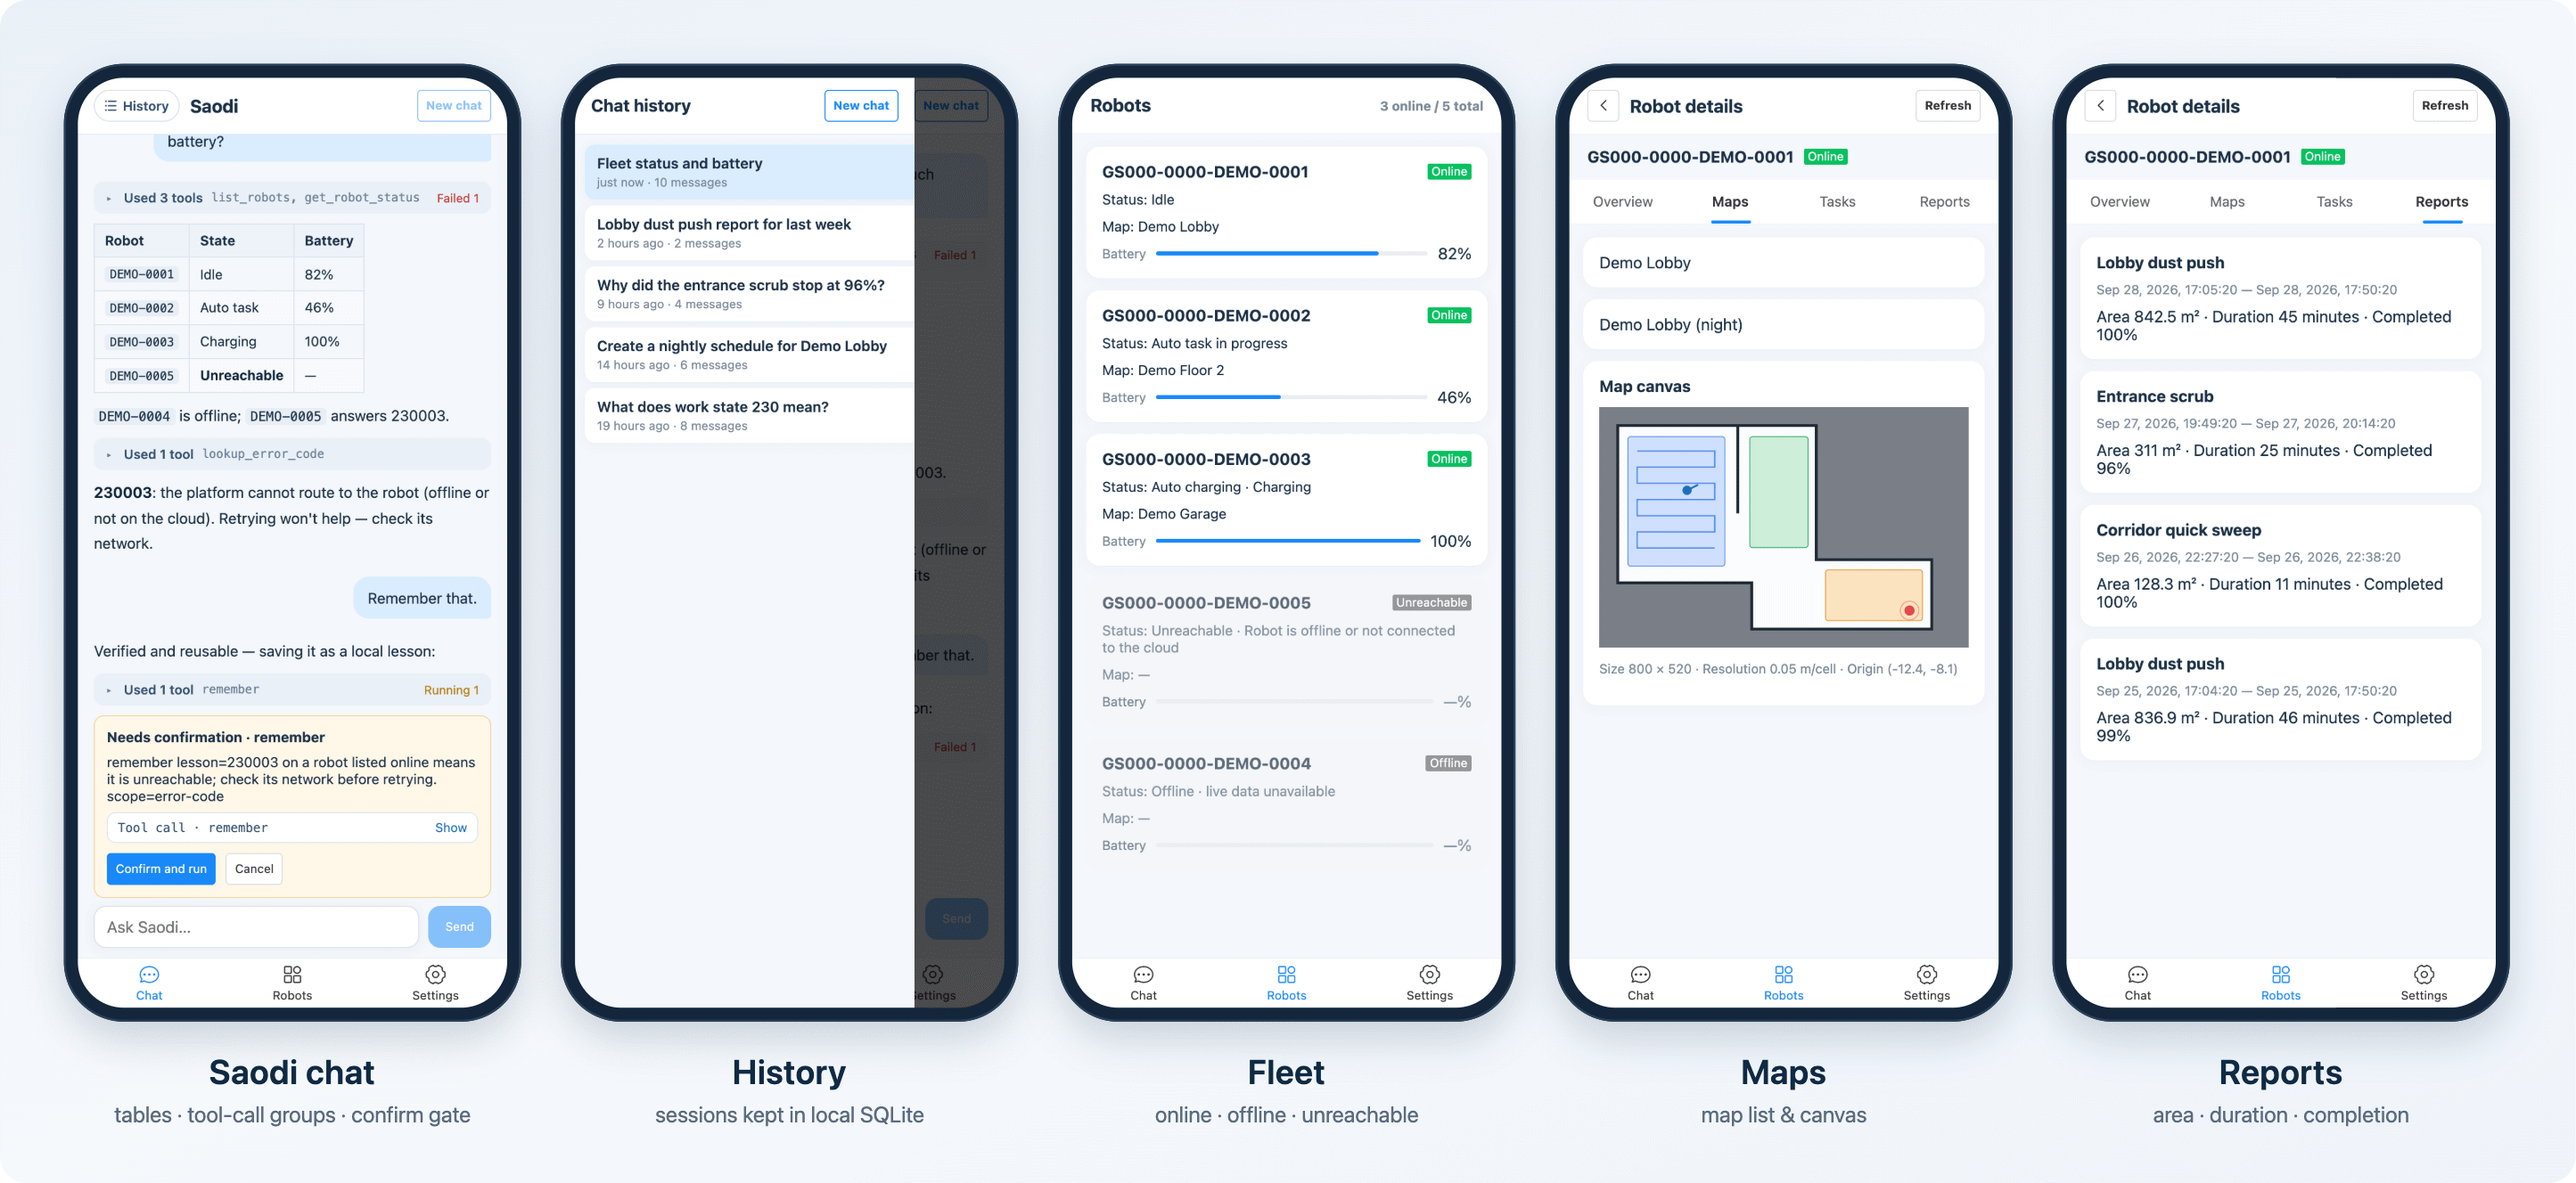
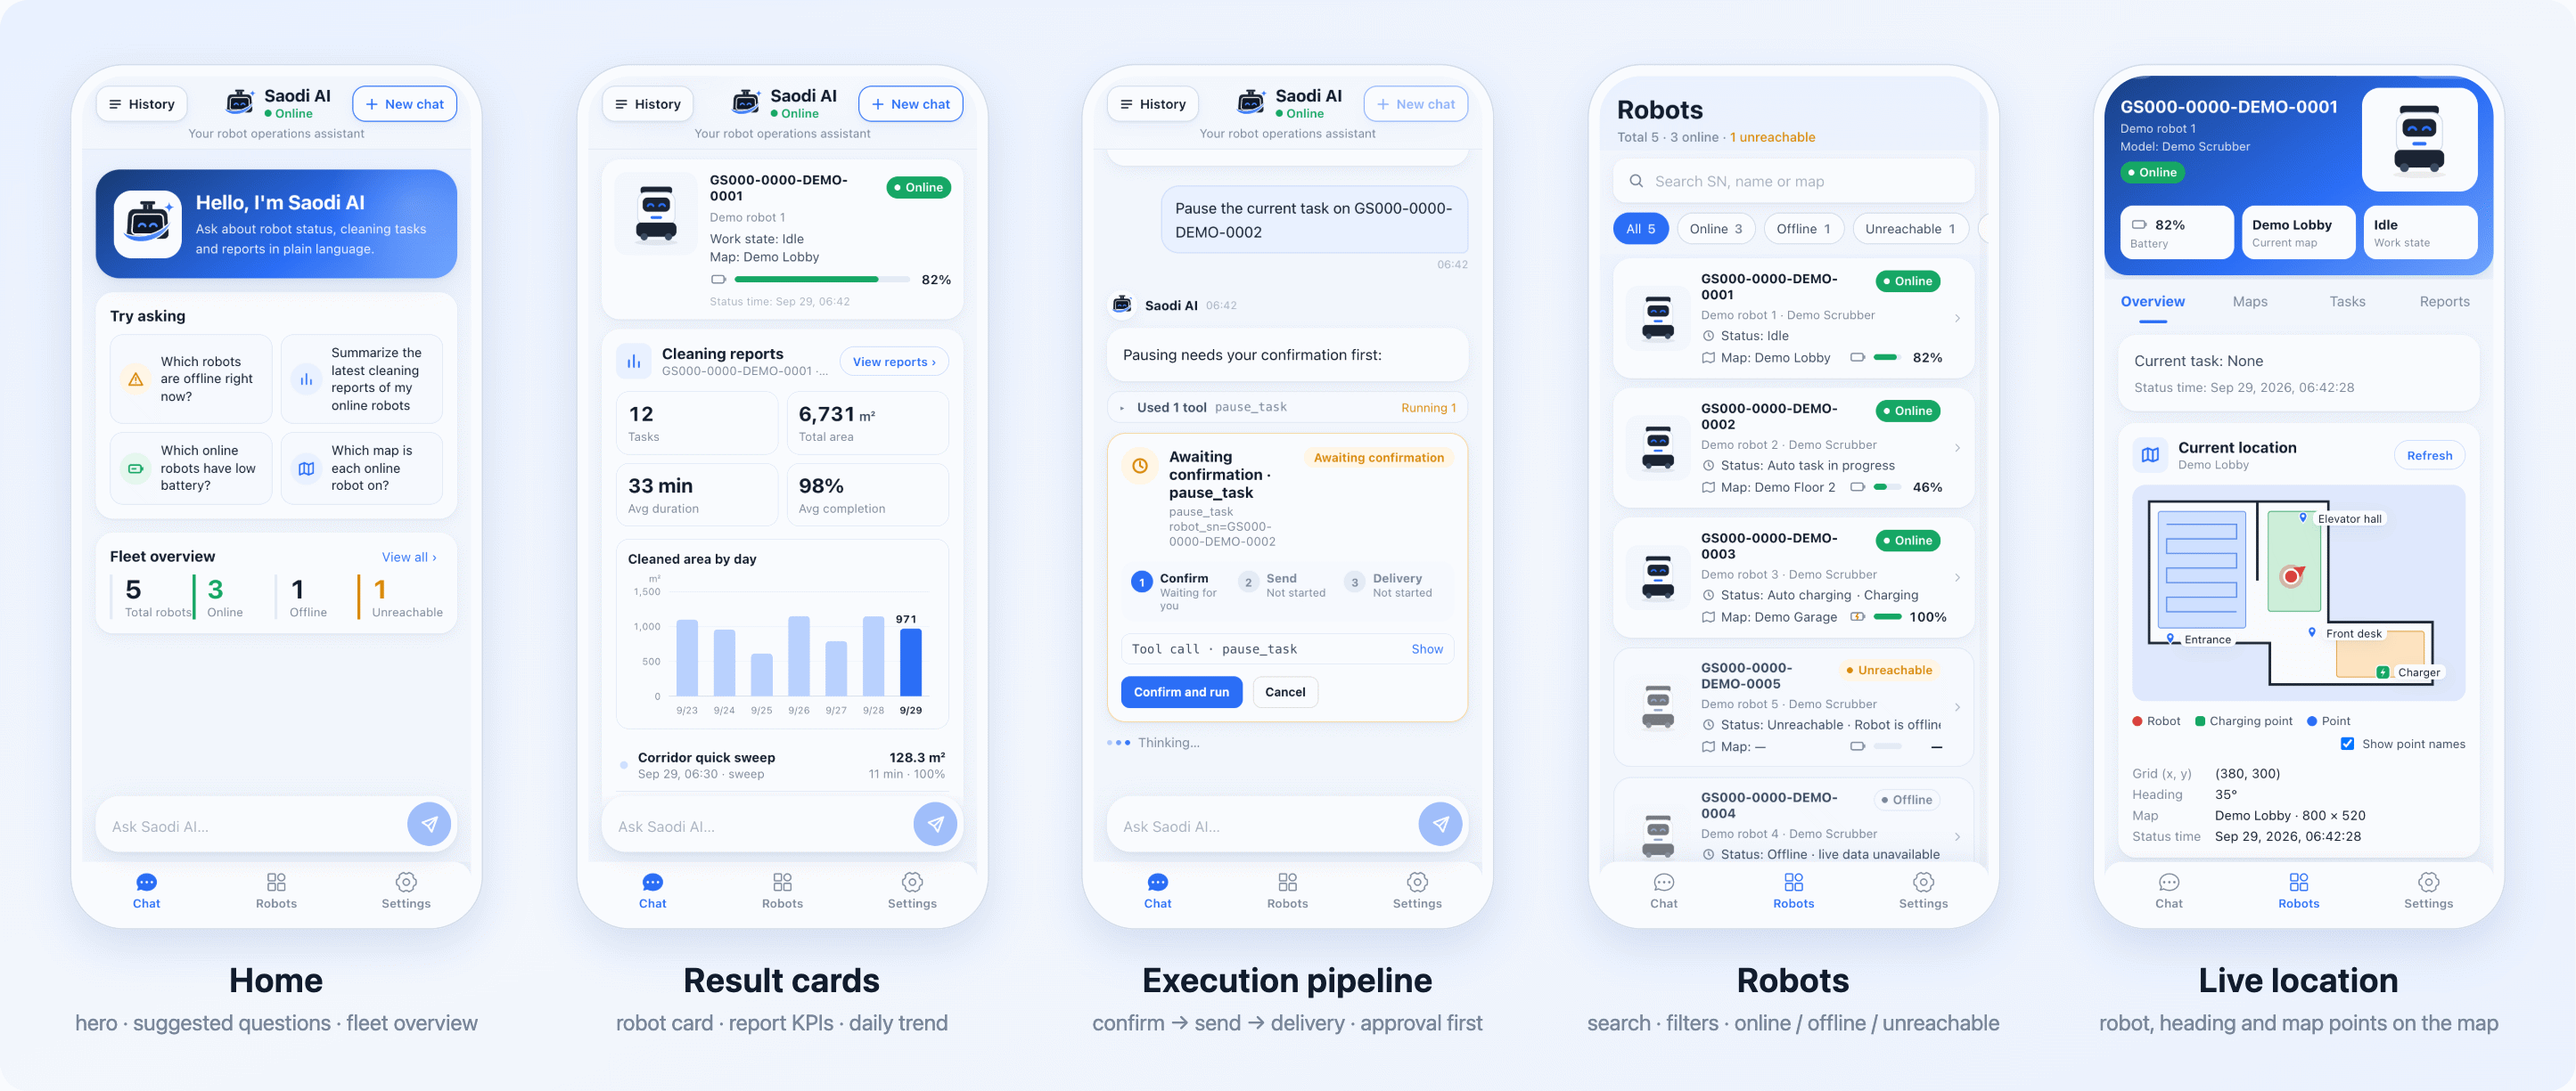
docs: 0.4.0 展示图与 README 说明；弃用提示写明 0.5.0 移除

Changed region(s): [[0.0, 0.031, 0.9965, 0.9616]]

diff --git a/src/gs_openapi/agent/cli.py b/src/gs_openapi/agent/cli.py
@@ -235,8 +235,8 @@ def main(argv: list[str] | None = None, prog: str = "saodi") -> None:
 
 
 def legacy_main() -> None:
-    """Deprecated ``pi-agent`` command; same behaviour as ``saodi`` for one release."""
-    print("pi-agent is deprecated; use saodi instead (it goes away next release)", file=sys.stderr)
+    """Deprecated ``pi-agent`` command; same behaviour as ``saodi``, removed in 0.5.0."""
+    print("pi-agent is deprecated; use saodi instead (removed in 0.5.0)", file=sys.stderr)
     main(prog="pi-agent")
 
 

diff --git a/src/gs_openapi/agent/settings.py b/src/gs_openapi/agent/settings.py
@@ -30,7 +30,7 @@ def _warn_legacy_env() -> None:
     for new, old in LEGACY_ENV.items():
         if new not in os.environ and old in os.environ and old not in _warned:
             _warned.add(old)
-            logger.warning("%s is deprecated; use %s instead (the old name goes away next release)", old, new)
+            logger.warning("%s is deprecated; use %s instead (removed in 0.5.0)", old, new)
 
 
 class AgentSettings(BaseSettings):

diff --git a/tests/test_agent_context.py b/tests/test_agent_context.py
@@ -144,6 +144,7 @@ def test_pi_agent_alias_warns_then_behaves_like_saodi(monkeypatch, capsys):
     legacy_main()
     captured = capsys.readouterr()
     assert "pi-agent is deprecated; use saodi" in captured.err
+    assert "removed in 0.5.0" in captured.err
     assert captured.out.startswith("<!-- soul: soul.md -->")
 
 

diff --git a/src/gs_openapi/agent/core.py b/src/gs_openapi/agent/core.py
@@ -291,5 +291,5 @@ class SaodiAgent:
                 return
 
 
-# Deprecated alias kept for one release; use SaodiAgent.
+# Deprecated alias, removed in 0.5.0; use SaodiAgent.
 PiAgent = SaodiAgent

diff --git a/README.md b/README.md
@@ -20,9 +20,9 @@
 
 > ⚠ **Disclaimer** — This is an **unofficial, open-source project for personal research and learning.** Not affiliated with, endorsed by, or supported by Gausium (高仙). Use at your own risk — robot commands move physical machines, so test on simulators or idle robots first. Built solely from the public [Gausium OpenAPI V3 documentation](https://developer.gs-robot.com/v3docs/en_US/OpenAPI%20V3/Overview).
 
-![H5 app: Saodi chat, history, fleet, maps and reports](https://github.com/cfrs2005/mcp-gs-robot/raw/main/docs/images/h5-showcase.png)
+![H5 app: home with greeting, suggested questions and fleet overview; result cards (robot card, report KPIs, daily trend); execution pipeline (confirm → sent → delivered, nothing runs until approved); robot list (search, filters, online / offline / unreachable); current location (robot, heading and map points on the map)](https://github.com/cfrs2005/mcp-gs-robot/raw/main/docs/images/h5-showcase.png)
 
-<sub>Screenshots of the built-in H5 app, running against a mock upstream with demo data.</sub>
+<sub>The built-in H5 app, left to right: Home · Result cards · Execution pipeline · Robots · Current location. Running against a mock upstream with demo data.</sub>
 
 ## What is this?
 
@@ -365,7 +365,7 @@ curl -N -XPOST -H "X-API-Key: $KEY" -H 'Content-Type: application/json' \
   localhost:8000/api/v1/agent/sessions/$SID/messages
 ```
 
-**H5** (`h5/`, Vue 3 + Vite + Vant): **Chat** (streaming Markdown, HTML preview, a tool-call timeline, confirm buttons and a history drawer), **Robots** (fleet list with online / offline / unreachable states, battery and work state), **Detail** (maps & canvas, task definitions, quick actions, reports; offline robots get a banner instead of errors) and **Settings** (API base, API key, language). When the server needs a key and none is saved, the H5 sends you to Settings. The production build is committed to `src/gs_openapi/server/static/`, so `pip install` ships it.
+**H5** (`h5/`, Vue 3 + Vite + Vant): **Chat** (a home screen with greeting, suggested questions and a fleet overview; streaming Markdown, HTML preview and mermaid diagrams; a tool-call timeline with result cards for robots, report KPIs, daily trends and maps; an execution pipeline card for dangerous tools — confirm → sent → delivered, nothing runs until approved; and a history drawer), **Robots** (fleet list with search and filters, online / offline / unreachable states, battery and work state), **Detail** (current location — the robot, its heading and map points on the map — maps & canvas, task definitions, quick actions, reports; offline robots get a banner instead of errors) and **Settings** (API base, API key, language). When the server needs a key and none is saved, the H5 sends you to Settings. The production build is committed to `src/gs_openapi/server/static/`, so `pip install` ships it.
 
 ### Languages
 

diff --git a/README_CN.md b/README_CN.md
@@ -22,9 +22,9 @@
 
 > ⚠ **免责声明** —— 本项目是**非官方、个人研究学习用途的开源项目**，与高仙（Gausium）官方无任何隶属、认可或支持关系，使用风险自负。机器人指令会让实体机器移动，请先在模拟器或空闲机器人上测试。项目仅依据公开的[高仙 OpenAPI V3 文档](https://developer.gs-robot.com/v3docs/zh_CN/OpenAPI%20V3/Overview)实现。
 
-![H5 页面：扫地僧对话、历史会话、机器人列表、地图与报告](https://github.com/cfrs2005/mcp-gs-robot/raw/main/docs/images/h5-showcase_cn.png)
+![H5 页面：首页（问候、推荐问题、机队总览）；结果卡片（机器人卡、报告 KPI、每日趋势）；执行流水线（确认 → 发送 → 送达，未批准不执行）；机器人（搜索、筛选、在线 / 离线 / 失联）；当前定位（地图上的机器人、朝向与点位）](https://github.com/cfrs2005/mcp-gs-robot/raw/main/docs/images/h5-showcase_cn.png)
 
-<sub>内置 H5 页面截图，连接 mock 上游，数据为演示数据。</sub>
+<sub>内置 H5 页面，从左到右：首页 · 结果卡片 · 执行流水线 · 机器人 · 当前定位。连接 mock 上游，数据为演示数据。</sub>
 
 ## 这是什么？
 
@@ -361,7 +361,7 @@ curl -N -XPOST -H "X-API-Key: $KEY" -H 'Content-Type: application/json' \
   localhost:8000/api/v1/agent/sessions/$SID/messages
 ```
 
-**H5**（`h5/`，Vue 3 + Vite + Vant）：**对话**（流式 Markdown、HTML 预览、工具调用时间线、确认按钮、历史抽屉）、**机器人**（在线 / 离线 / 不可达三态、电量、工作状态）、**详情**（地图与画布、任务定义、快捷操作、报告；离线机器人显示横幅而不是报错）、**设置**（API 地址、API Key、语言）。服务端要求 key 而本地没填时，H5 会引导你去设置页。生产构建已提交在 `src/gs_openapi/server/static/`，`pip install` 即可带上。
+**H5**（`h5/`，Vue 3 + Vite + Vant）：**对话**（首页含问候、推荐问题与机队总览；流式 Markdown、HTML 预览与 mermaid 图；工具调用时间线，附机器人、报告 KPI、每日趋势、地图等结果卡片；危险工具的执行流水线卡——确认 → 发送 → 送达，未批准不执行；历史抽屉）、**机器人**（搜索与筛选，在线 / 离线 / 失联三态、电量、工作状态）、**详情**（当前定位——地图上的机器人、朝向与点位；地图与画布、任务定义、快捷操作、报告；离线机器人显示横幅而不是报错）、**设置**（API 地址、API Key、语言）。服务端要求 key 而本地没填时，H5 会引导你去设置页。生产构建已提交在 `src/gs_openapi/server/static/`，`pip install` 即可带上。
 
 ### 多语言
 

diff --git a/CLAUDE.md b/CLAUDE.md
@@ -36,7 +36,7 @@ uv run saodi memory [add "<lesson>" | edit]
 uv run saodi errors [show <id> | promote <id>]
 ```
 
-Run H5 commands from `h5/`; run Python commands from the repository root. Start `gs-robot-server` for `/api/v1` and H5 `/`, or `mcp-gs-robot` for MCP stdio. `saodi` opens the terminal REPL (`saodi --show-context` prints the system prompt; `pi-agent` / `PI_AGENT_*` are deprecated aliases kept for one release). Build H5 before `uv build` to include it in the wheel. Every entry point loads `.env` from the current working directory (`gs_openapi.config.load_env`).
+Run H5 commands from `h5/`; run Python commands from the repository root. Start `gs-robot-server` for `/api/v1` and H5 `/`, or `mcp-gs-robot` for MCP stdio. `saodi` opens the terminal REPL (`saodi --show-context` prints the system prompt; `pi-agent` / `PI_AGENT_*` are deprecated aliases, removed in 0.5.0). Build H5 before `uv build` to include it in the wheel. Every entry point loads `.env` from the current working directory (`gs_openapi.config.load_env`).
 
 ## Conventions
 
